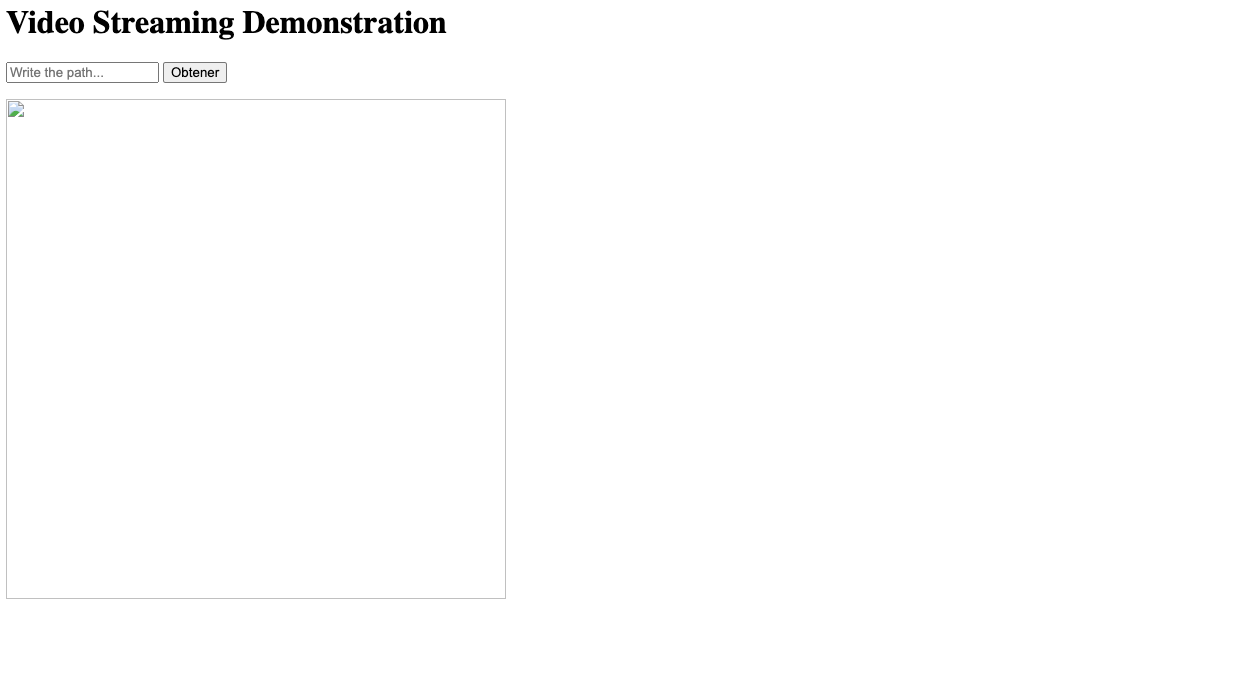
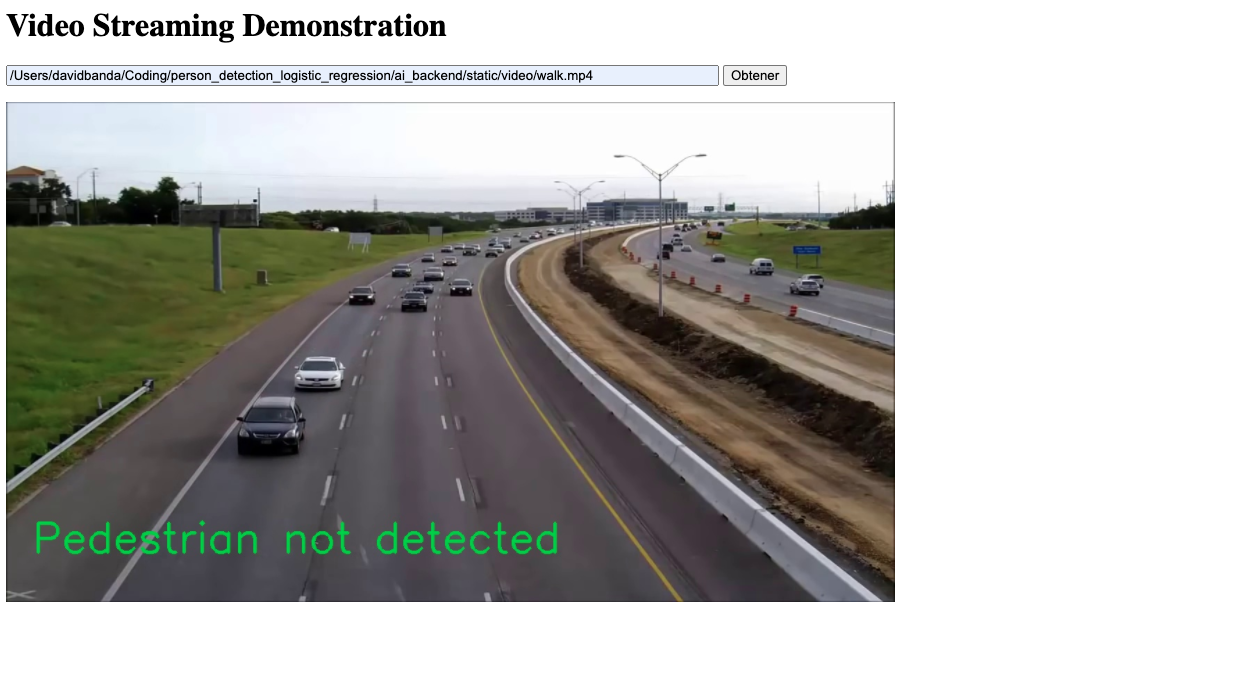
change the prev path

diff --git a/index.html b/index.html
@@ -5,7 +5,7 @@
   <body>
     <h1>Video Streaming Demonstration</h1>
     <form>
-      <input type="text" placeholder="Write the path..." id="myInput">
+      <input type="text" placeholder="Write the path..." id="myInput" size="100rem">
       <button type="button" onclick="getInputValue();">Obtener</button>
     </form>
     <img id="frame" src=http://localhost:5000/video_feed?path=/Users/davidbanda/Coding/person_detection_logistic_regression/ai_backend/static/video/no-person.mp4 height="500rem" >
